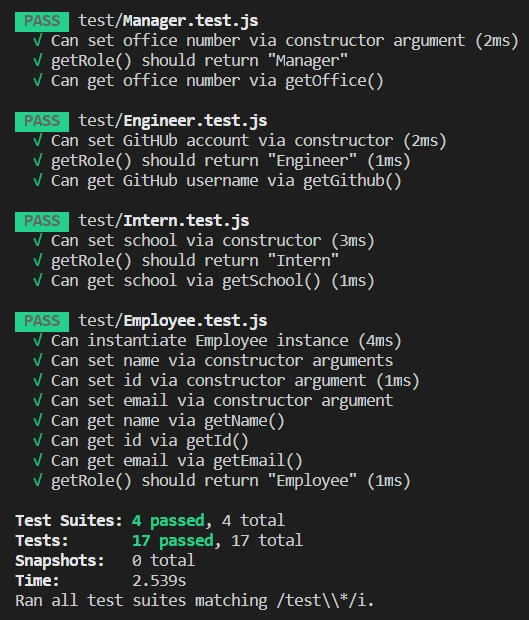
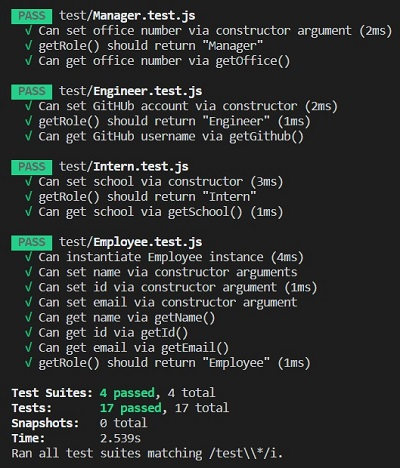
Minor adjustments to readme

diff --git a/README.md b/README.md
@@ -32,7 +32,7 @@
 
   ### Tests
   In the terminal run: <i>npm run test</i><br />
-  ![Image](./assets/images/Profile_Generator_Test.jpg "Test Passed")
+  ![Image](./assets/images/Profile_Generator_Test.jpg =350px "Test Passed")
 
   ### Contribution
   Kai Dong
